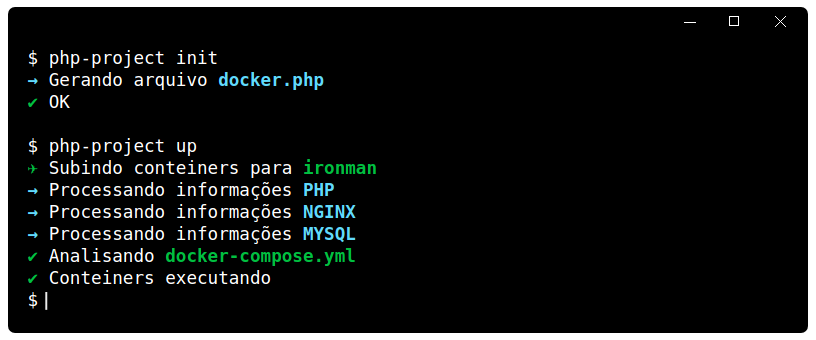
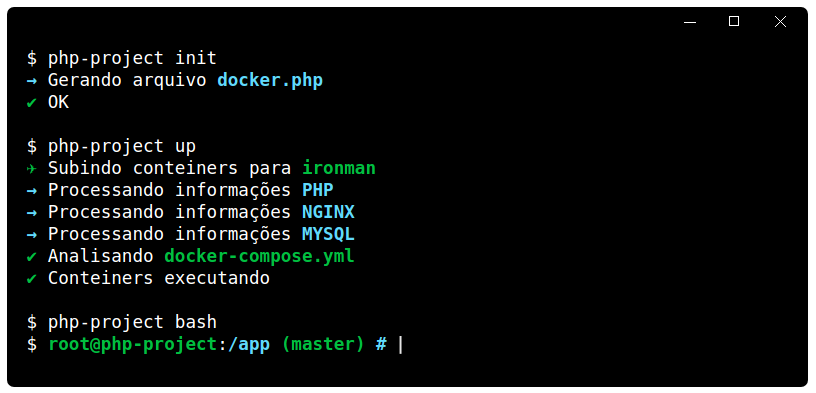
Atualização na documentação

diff --git a/readme.md b/readme.md
@@ -39,6 +39,12 @@ Para gerar os arquivos do Docker (docker-compose.yml, .docker-project/*) e subir
 $ php-project up
 ```
 
+Para acessar o terminal da aplicação: 
+
+```sh
+$ php-project bash
+```
+
 ### 2.2. O docker.php
 
 O arquivo **docker.php** é a porta de entrada para uma fácil configuração. Quando um projeto é iniciado,
